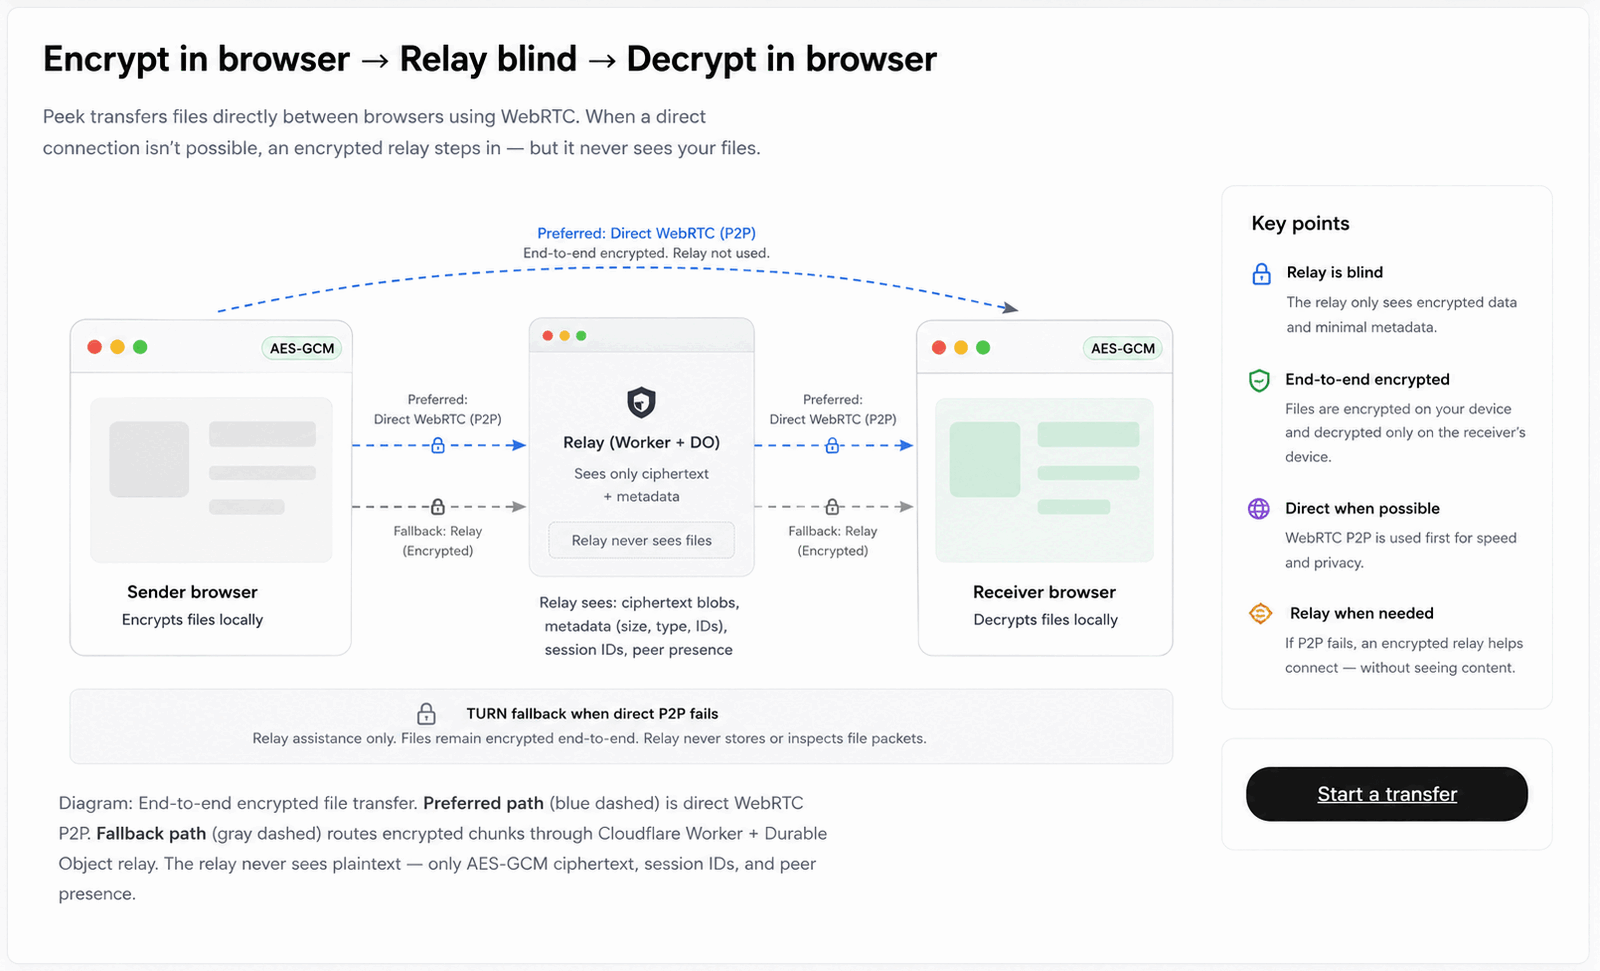
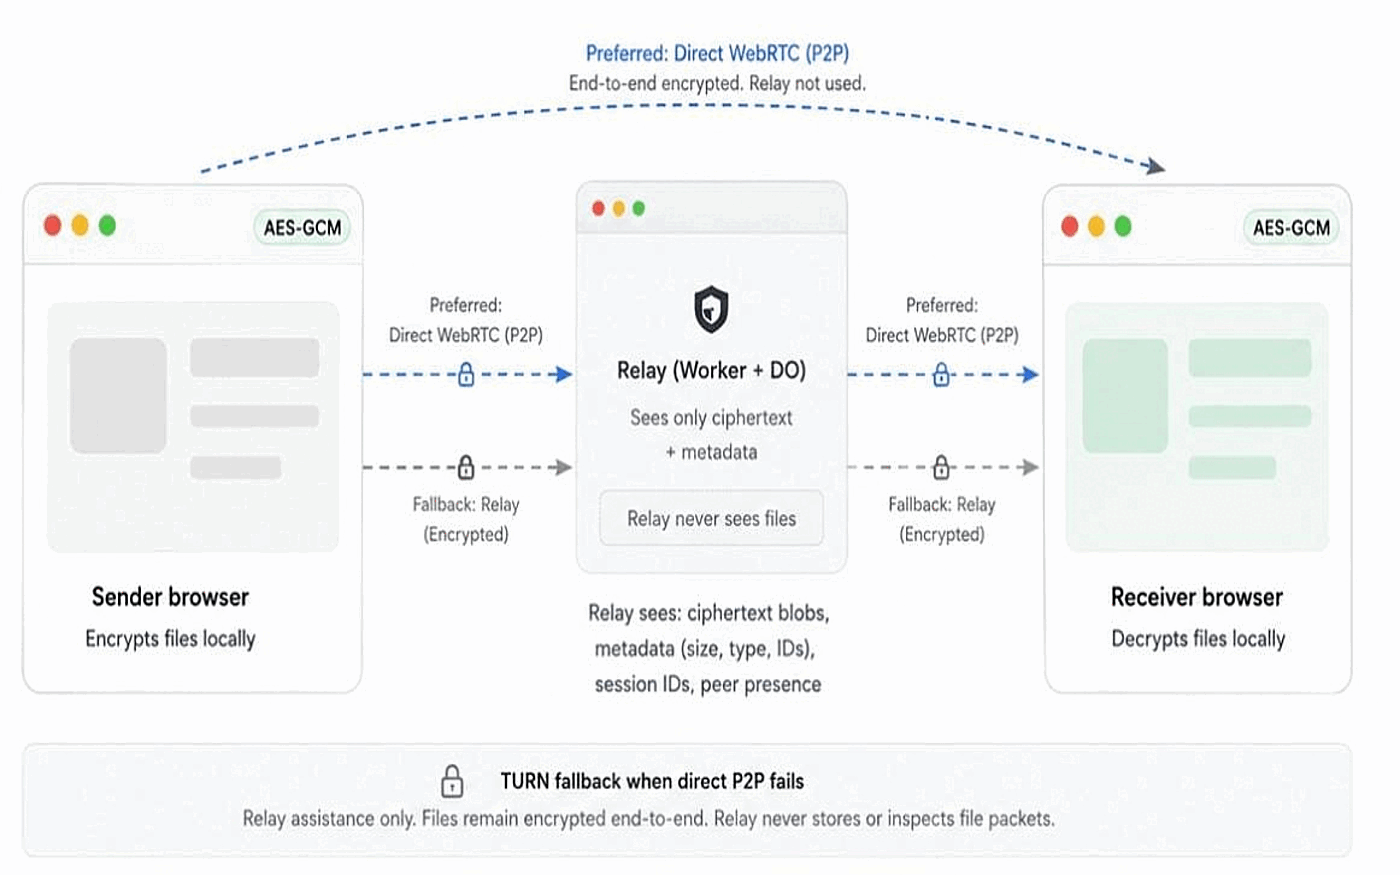
fix: replace data-flow diagram with enhanced WhatsApp screenshot (185KB, 1400x875)

diff --git a/web/src/pages/DataFlowExplainer.jsx b/web/src/pages/DataFlowExplainer.jsx
@@ -31,8 +31,8 @@ export function DataFlowExplainer() {
                       src="/images/data-flow-diagram.png"
                       alt="Diagram: end-to-end encrypted file transfer. Preferred path (blue dashed) is direct WebRTC P2P, end-to-end encrypted with the relay not used. Fallback path (gray dashed) routes encrypted chunks through the Cloudflare Worker plus Durable Object relay when a direct connection fails. The relay never sees plaintext — only AES-GCM ciphertext, session IDs, and peer presence."
                       className="flow-diagram-img"
-                      width="1600"
-                      height="1000"
+                      width="1400"
+                      height="875"
                       loading="lazy"
                     />
                   </figure>
